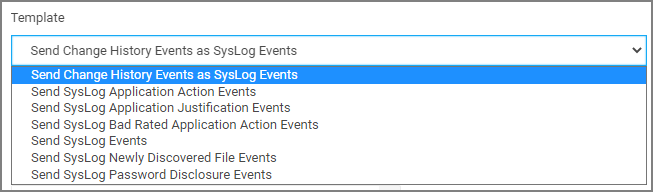
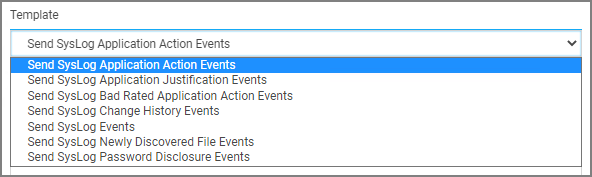
#242376: syslog task templates name change and new screen capture

Changed region(s): [[0.0, 0.0565, 1.0, 0.9887]]

diff --git a/admin/config/foreign-systems/third-party/set-up-syslog.md b/admin/config/foreign-systems/third-party/set-up-syslog.md
@@ -44,10 +44,10 @@ The following template options are available:
 
 ![Send SysLog templates](images/syslog/templates.png "Sent SysLog Events template options")
 
-* __Send Change History as SysLog Events__ - Use this template to send change history events to your SysLog system. When this task runs for the first time, it sends all change history to your SysLog server. On subsequent runs it only sends the delta of new change history events.
 * __Send SysLog Application Action Events__ - Use this template to send application action events to your SysLog system. Application Action Events contain generic information about the application that run, which policy was triggered, the date/time stamp, computer, and user for example.
 * __Send SysLog Application Justification Events__ - Use this template to send application justification events to your SysLog system. For example, if a user runs an application requiring a justification workflow.
 * __Send SysLog Bad Rated Application Action Events__ - Use this template to send an event to your SysLog system, when an application is being installed or executed, that is identified with a bad security rating.
+* __Send SysLog Change History Events__ - Use this template to send change history events to your SysLog system. When this task runs for the first time, it sends all change history to your SysLog server. On subsequent runs it only sends the delta of new change history events.
 * __Send SysLog Events__ - Use this template to send all SysLog events to your SysLog system. These events are based on the different options you selected on the SysLog server during setup.
 * __Send SysLog Newly Discovered File Events__ - Use this template to send newly discovered file events to your SysLog system. For this to produce any events the Default File Inventory Policy needs to be enabled and resource discovery schedules need to be customized.
 * __Send SysLog Password Disclosure Events__ - Use this template to send all password disclosure events to your SysLog system.
